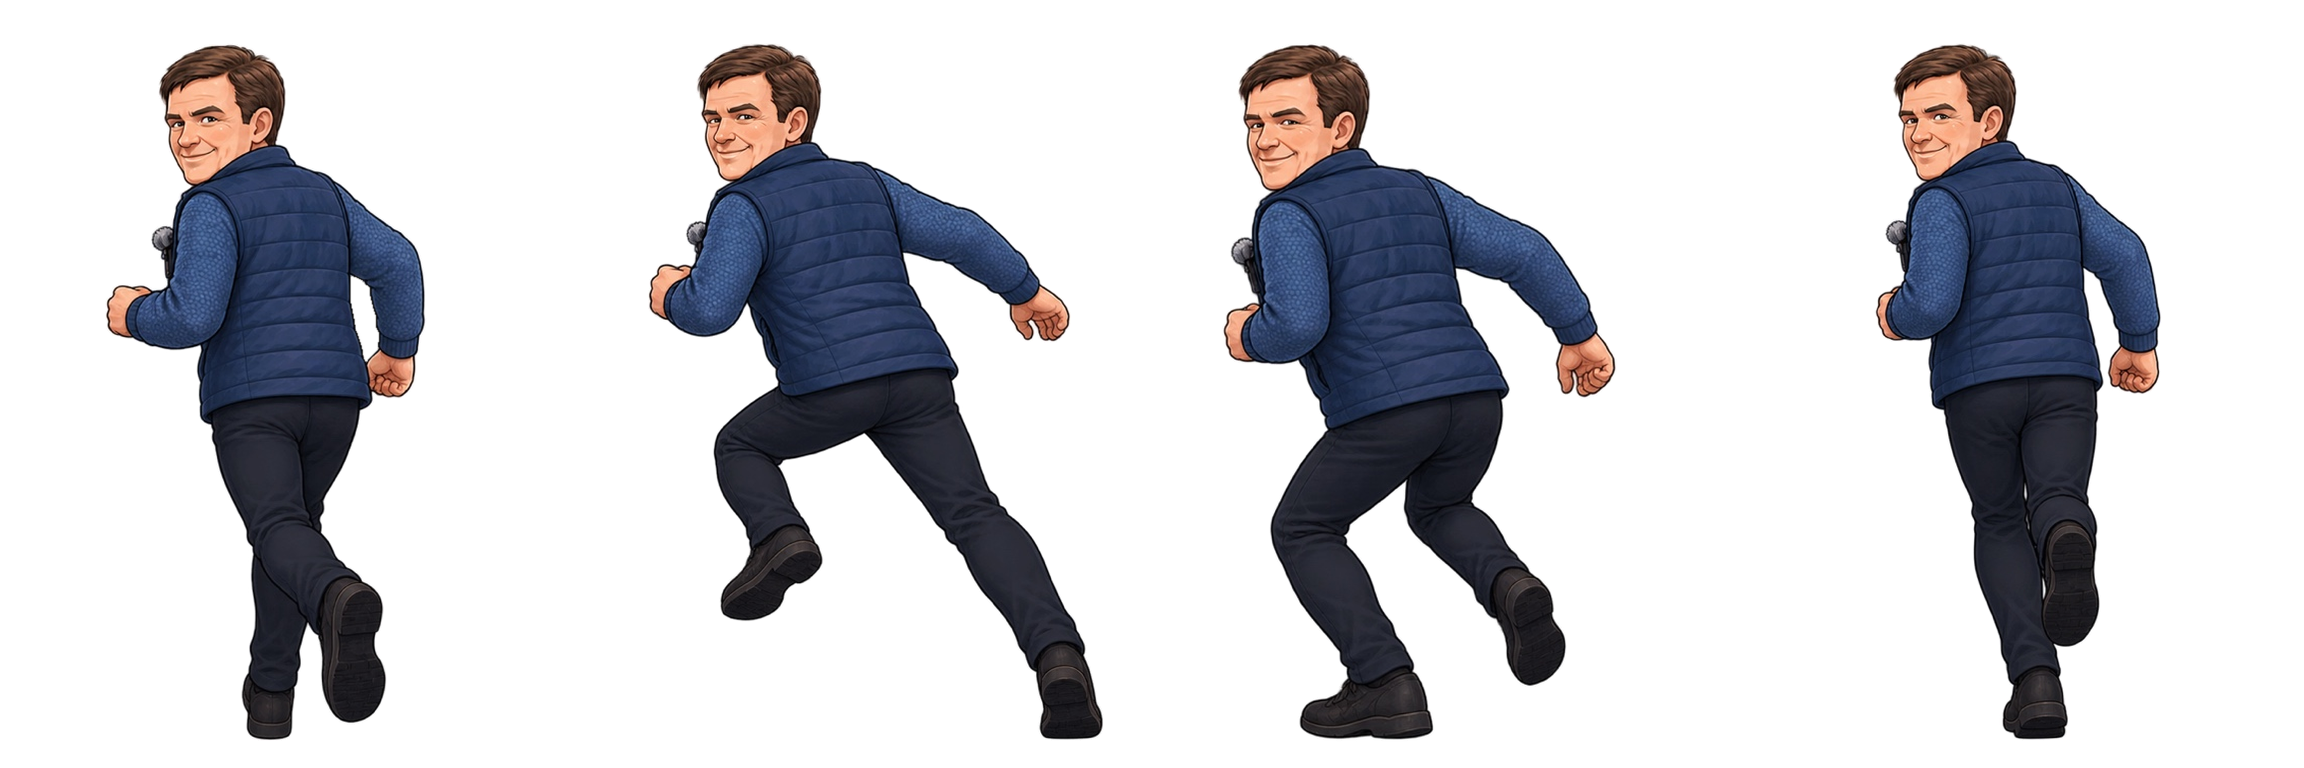
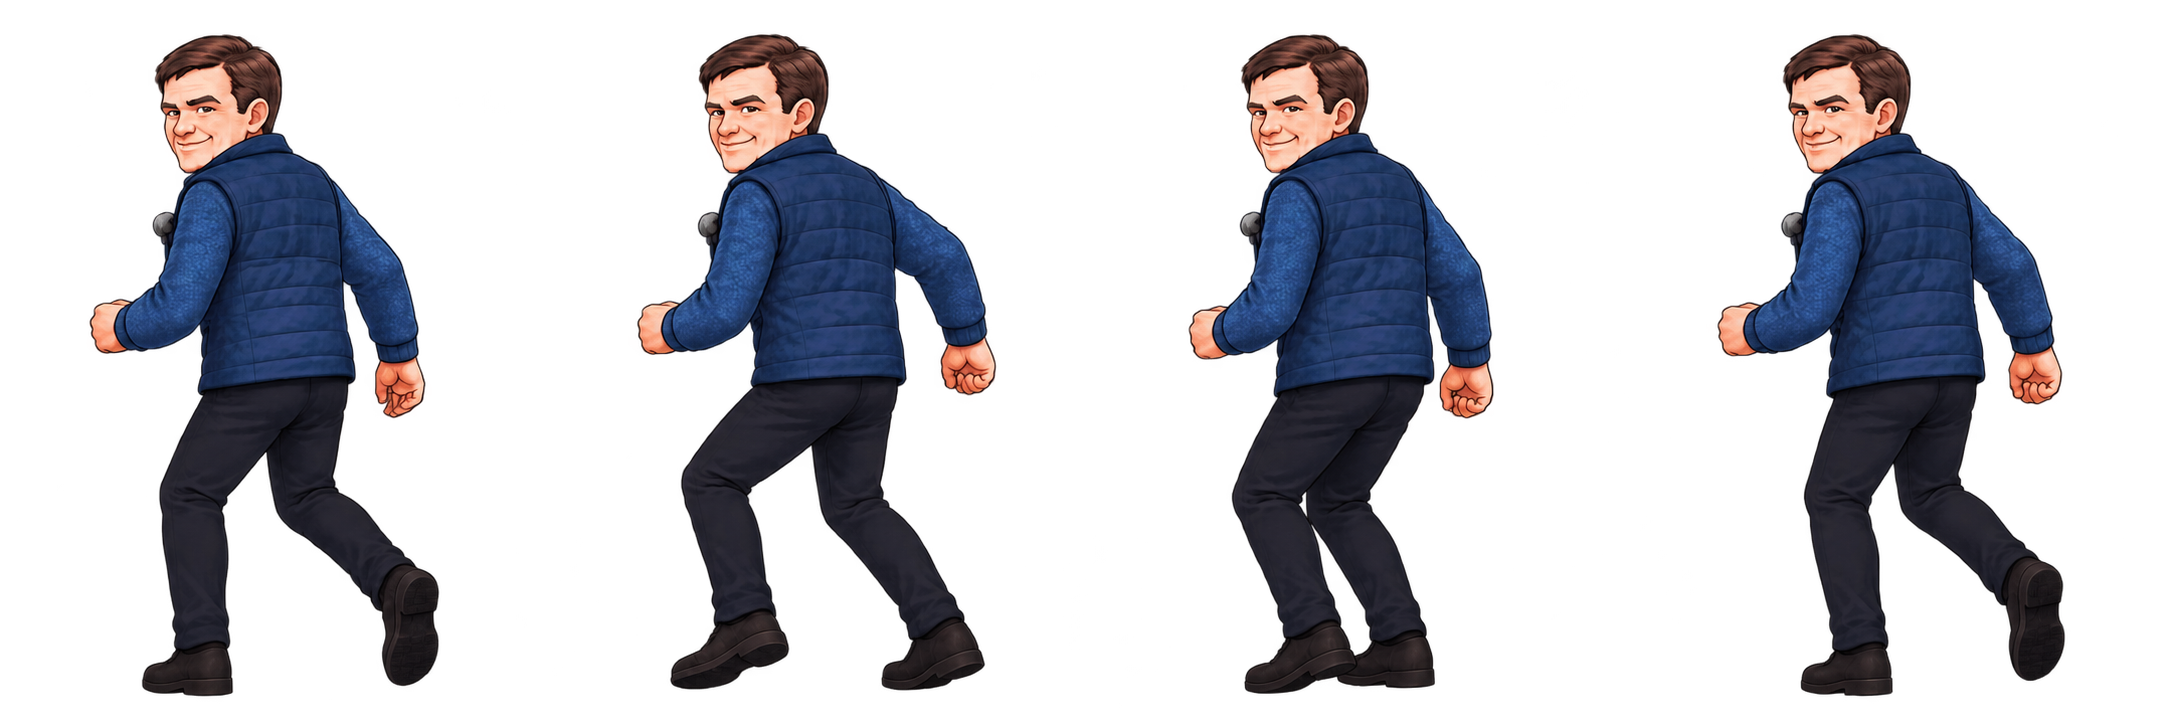
Install approved compact Gary sidesteps with walking-height calibration

diff --git a/game-sidestep-no-ghost.js b/game-sidestep-no-ghost.js
@@ -136,11 +136,12 @@ let shutterMix = 0;
   const imgCrash = loadGary(GARY_SPRITES.crash);
 
   // GarySmoothSidestepFourFramesV4 — frame visibility independent from lane travel.
-  const SIDE_FRAMES = 4, SIDE_W = 576, SIDE_H = 768;
+  // GaryApprovedSidesteps20261016V1
+  const SIDE_FRAMES = 4, SIDE_W = 543, SIDE_H = 724;
   const SIDE_ANIM_SECONDS = 0.44; // Visible for 110 ms per frame.
   let sideAnimTime = SIDE_ANIM_SECONDS, sideAnimDir = 0;
   const imgSideLeft = new Image(), imgSideRight = new Image();
-  const sideArt = { left: false, right: false, anchors: [[], []], walkFoot: 0.975 };
+  const sideArt = { left: false, right: false, anchors: [[], []], walkFoot: 0.975, walkTop: 0.02 };
 
   // Derive the torso centre and shoe baseline from actual transparency.
   // Frames have different silhouettes; this prevents visible lateral/vertical popping.
@@ -158,23 +159,24 @@ let shutterMix = 0;
         pixels[((height-1)*width)*4+3] > 60) {
       return {torso:0.5,foot:0.96};
     }
-    let xSum=0, count=0, foot=0;
+    let xSum=0, count=0, foot=0, top=height;
     for(let y=0;y<height;y+=3){
       for(let x=0;x<width;x+=3){
         const alpha=pixels[(y*width+x)*4+3];
         if(alpha<100) continue;
         if(y>foot) foot=y;
+        if(y<top) top=y;
         if(y>height*0.24 && y<height*0.55){xSum+=x;count++;}
       }
     }
-    return {torso:count?xSum/count/width:0.5,foot:foot?foot/height:0.96};
+    return {torso:count?xSum/count/width:0.5,foot:foot?foot/height:0.96,top:top<height?top/height:0.02};
   }
 
   function prepareSideImage(img, key, file){
     img.ready = false;
     img.onload = () => {
       if(img.naturalWidth!==SIDE_FRAMES*SIDE_W || img.naturalHeight!==SIDE_H){
-        loadErrorLog.push(file+': expected a 2304 x 768, four-frame sheet');
+        loadErrorLog.push(file+': expected a 2172 x 724, four-frame sheet');
         return;
       }
       const anchors=[];
@@ -185,7 +187,7 @@ let shutterMix = 0;
       sideArt[key]=true;
     };
     img.onerror=()=>loadErrorLog.push(file+': missing; using walking animation');
-    img.src=file+'?v=4';
+    img.src=file+'?v=approved20261016';
   }
   prepareSideImage(imgSideLeft,'left','gary_sidestep_left.png');
   prepareSideImage(imgSideRight,'right','gary_sidestep_right.png');
@@ -193,7 +195,8 @@ let shutterMix = 0;
     if(!imgWalkSheet.naturalWidth)return;
     const width=Math.round(imgWalkSheet.naturalWidth/WALK_FRAMES);
     const height=imgWalkSheet.naturalHeight;
-    sideArt.walkFoot=analyseGaryFrame(imgWalkSheet,0,width,height).foot;
+    const walkMetrics=analyseGaryFrame(imgWalkSheet,0,width,height);
+    sideArt.walkFoot=walkMetrics.foot; sideArt.walkTop=walkMetrics.top||0.02;
   });
   let runFrame = 0, runTimer = 0;
 
@@ -1624,11 +1627,13 @@ let shutterMix = 0;
       const fraction=Math.min(0.999999,sideAnimTime/SIDE_ANIM_SECONDS);
       const frame=Math.min(3,Math.floor(fraction*SIDE_FRAMES));
       const anchor=sideArt.anchors[direction<0?0:1][frame]||{torso:0.5,foot:0.96};
-      const w=h*SIDE_W/SIDE_H;
+      const visible=Math.max(0.5,anchor.foot-(anchor.top||0.02));
+      const poseH=h*(sideArt.walkFoot-sideArt.walkTop)/visible;
+      const w=poseH*SIDE_W/SIDE_H;
       // Align the shirt/torso centre and shoe baseline to the walking sprites.
       const x=-w*anchor.torso;
-      const y=-h+WORLD.playerFootOffset+h*sideArt.walkFoot-h*anchor.foot;
-      ctx.drawImage(image,frame*SIDE_W,0,SIDE_W,SIDE_H,x,y,w,h);
+      const y=-h+WORLD.playerFootOffset+h*sideArt.walkFoot-poseH*anchor.foot;
+      ctx.drawImage(image,frame*SIDE_W,0,SIDE_W,SIDE_H,x,y,w,poseH);
     } else if(imgWalkSheet.ready){
       const frameW=imgWalkSheet.naturalWidth/WALK_FRAMES;
       const frameH=imgWalkSheet.naturalHeight;

diff --git a/index.html b/index.html
@@ -102,6 +102,6 @@
 <!-- GarySidestepSmoothPrevious=game-sidestep-test.js?v=1 -->
 <!-- GarySidestepNoGhostPrevious=game-sidestep-smooth.js?v=1 -->
 <!-- GARY_PICKUP_SFX_INDEX_V1: game-sidestep-no-ghost.js -->
-<script src="game-sidestep-no-ghost.js?v=5"></script>
+<script src="game-sidestep-no-ghost.js?v=approved20261016"></script>
 </body>
 </html>
